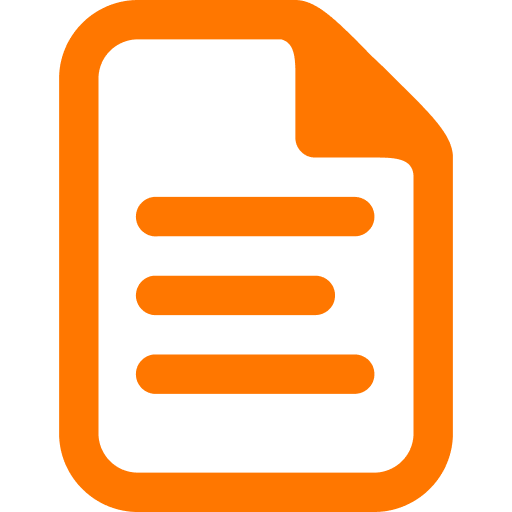
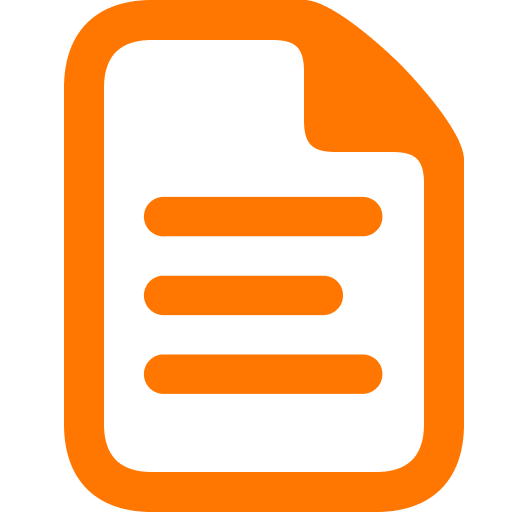
update
- added 5 icons
- improved 5 icons
- improved readme

diff --git a/README.md b/README.md
@@ -1,12 +1,12 @@
 ## About
 
-<img src="./assets/logo.png" alt="Logo" width="150">
+<img src="https://raw.githubusercontent.com/Loafer19/vscode-minific/main/assets/logo.png" alt="Logo" width="150">
 
 Probably the best file icon theme for VS Code ;)
 
-Uploaded icons: `10`
+Uploaded icons: `16`
 
-<img src="./assets/icons.png" alt="Logo">
+![./assets/icons.png](https://raw.githubusercontent.com/Loafer19/vscode-minific/main/assets/icons.png)
 
 Benefits:
 
